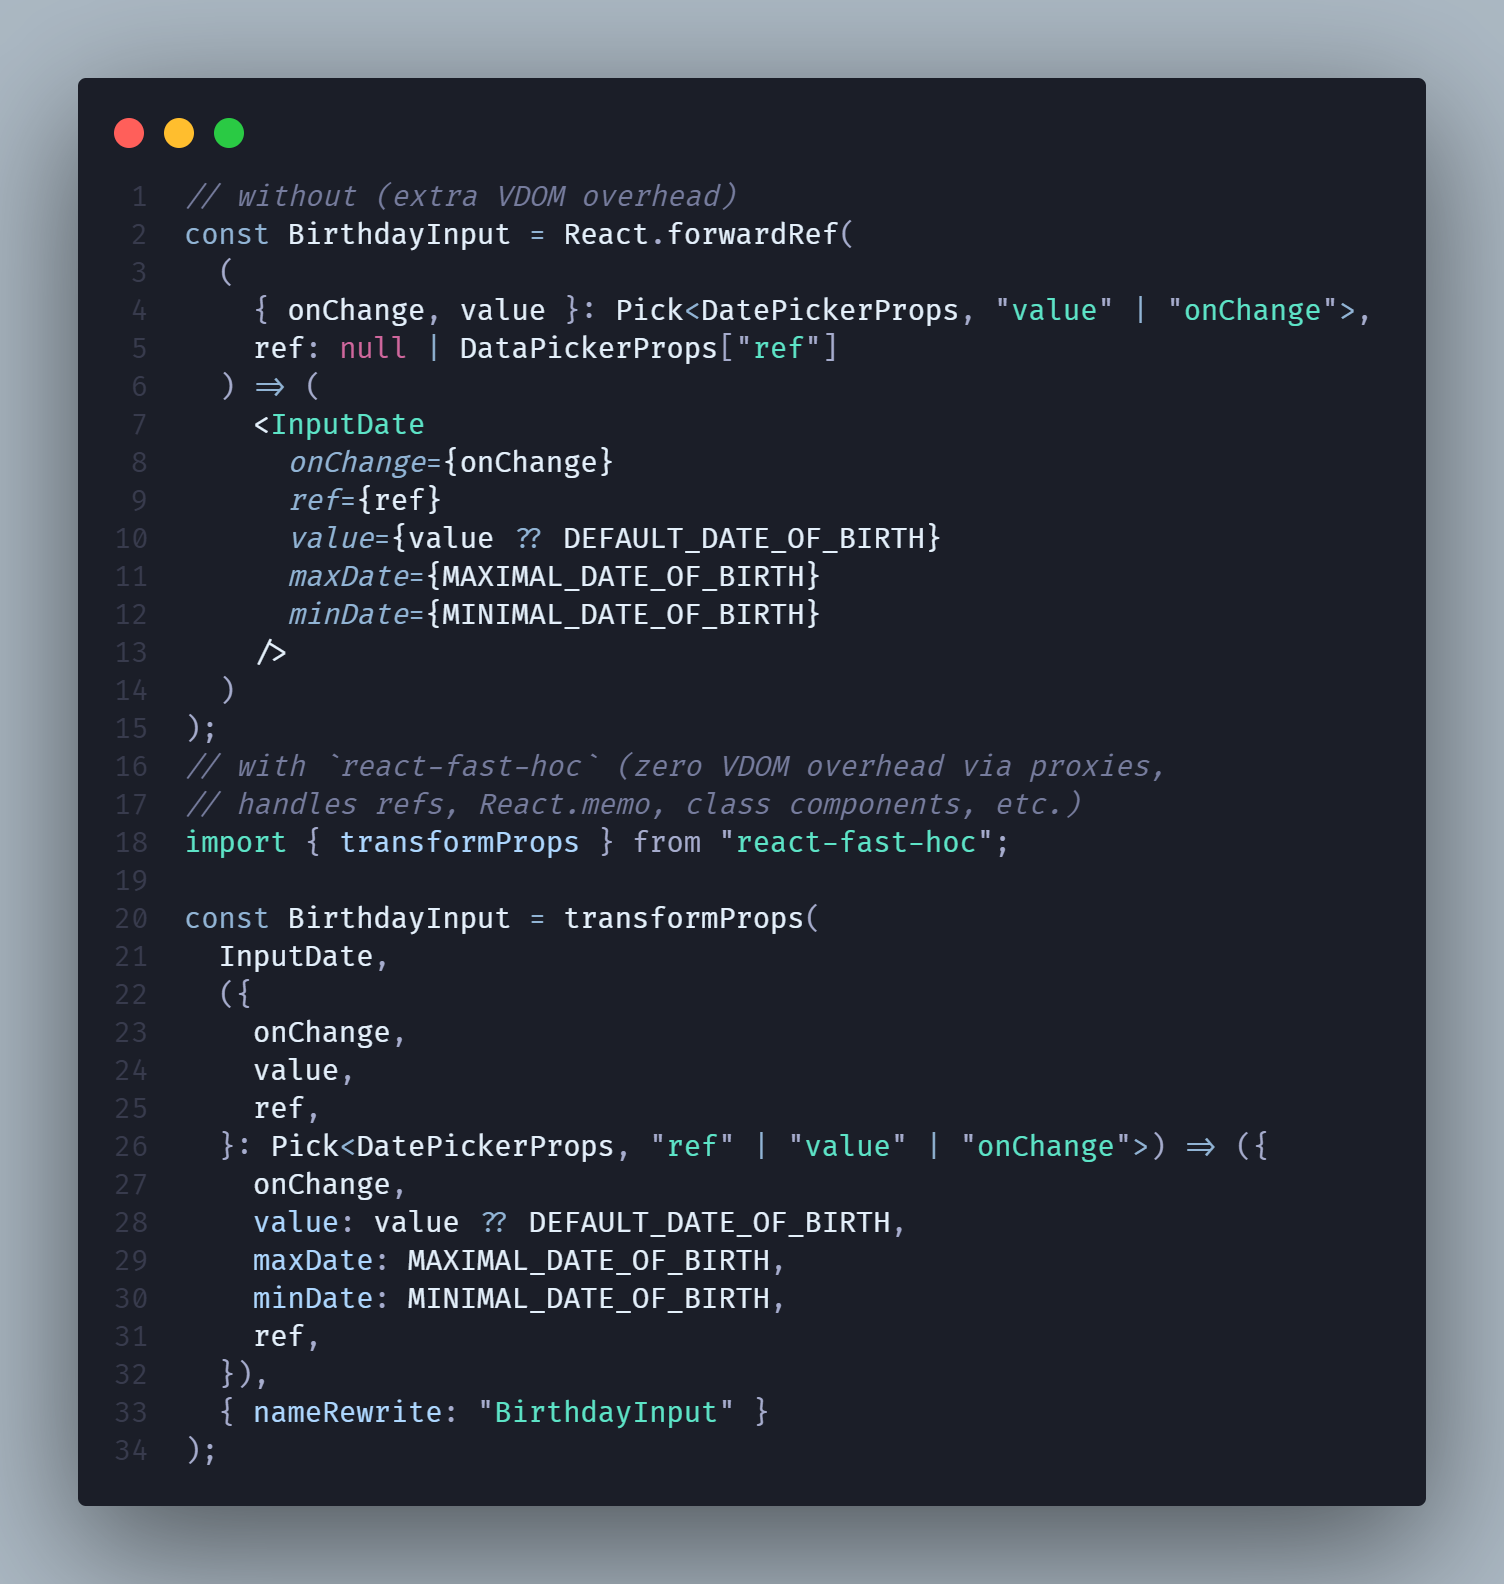
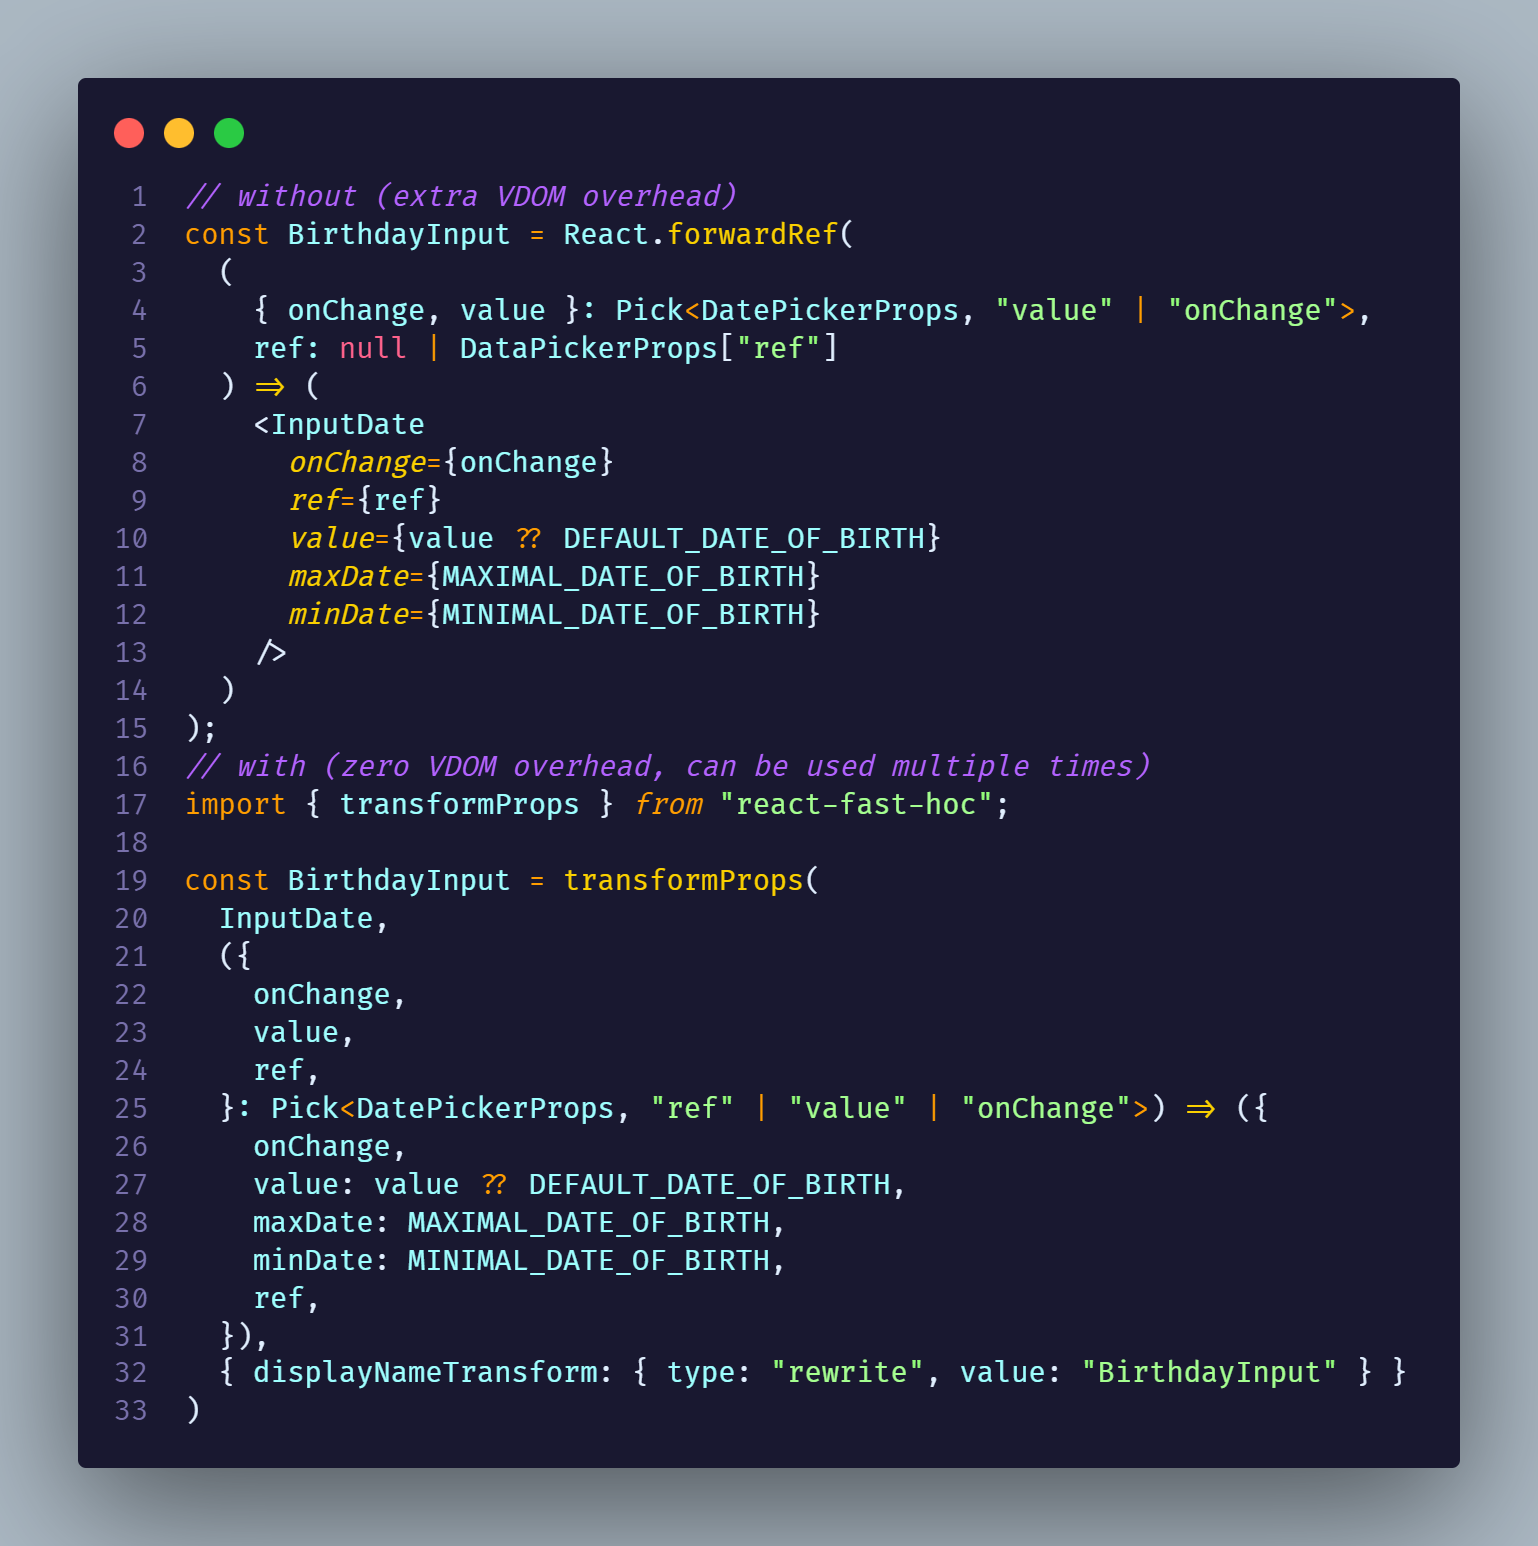
remove deprecated methods from docs

diff --git a/packages/react-fast-hoc/src/createHoc.ts b/packages/react-fast-hoc/src/createHoc.ts
@@ -40,7 +40,7 @@ const paramsToDisplayNameTransformer = (
  */
 export const createHoc = <
   TPipeTransform extends Fn[] | HocTypeTransform<any, any>,
-  ComponentPropsExtends extends PropsBase = PropsBase,
+  TComponentPropsExtends extends PropsBase = PropsBase,
   TActualTransform extends HocTypeTransform<
     any,
     any
@@ -67,5 +67,5 @@ export const createHoc = <
       component,
       proxyObject,
       mimicToHandler
-    )) as CreateHocReturn<TActualTransform, ComponentPropsExtends>;
+    )) as CreateHocReturn<TActualTransform, TComponentPropsExtends>;
 };

diff --git a/README.md b/README.md
@@ -1,8 +1,8 @@
 # React Fast HOC
 
-![Version](https://badgen.net/npm/v/react-fast-hoc) ![Ts support](https://badgen.net/npm/types/react-fast-hoc) ![Size](https://badgen.net/bundlephobia/min/react-fast-hoc) ![Size gzip](https://badgen.net/bundlephobia/minzip/react-fast-hoc) ![Tree shaking](https://badgen.net/bundlephobia/tree-shaking/react-fast-hoc)
+Lightweight and type-safe High-Order Components (HOCs) library for React, leveraging high-order types from "hotscript" and JavaScript Proxies for zero VDOM overhead.
 
-Lightweight and type-safe High-Order Components (HOCs) library for React, leveraging high-order types from "hotscript" and JavaScript Proxies for zero VDOM overhead and blazing-fast performance.
+![Version](https://badgen.net/npm/v/react-fast-hoc) ![Ts support](https://badgen.net/npm/types/react-fast-hoc) ![Size](https://badgen.net/bundlephobia/min/react-fast-hoc) ![Size gzip](https://badgen.net/bundlephobia/minzip/react-fast-hoc) ![Tree shaking](https://badgen.net/bundlephobia/tree-shaking/react-fast-hoc)
 
 ![Demonstration](./code.png)
 
@@ -45,7 +45,7 @@ Or with [ni](https://www.npmjs.com/package/@antfu/ni):
 ni react-fast-hoc
 ```
 
-Install the `hotscript` for advanced usage:
+Install the `hotscript` for creating complex props transformations:
 
 ```sh
 ni -D hotscript
@@ -85,7 +85,7 @@ const BirthdayInput = transformProps(
     minDate: MINIMAL_DATE_OF_BIRTH,
     ref,
   }),
-  { nameRewrite: "BirthdayInput" }
+  { displayNameTransform: { type: "rewrite", value: "BirthdayInput" } }
 );
 ```
 
@@ -95,7 +95,7 @@ const BirthdayInput = transformProps(
 
 Directly create a new component with transformed props.
 
-```typescript
+```ts
 import { transformProps } from "react-fast-hoc";
 
 const EnhancedComponent = transformProps(
@@ -104,7 +104,7 @@ const EnhancedComponent = transformProps(
     // Transform props here
     return { ...props, transformedProp: "Transformed Value" };
   },
-  { namePrefix: "WithTransformedProps." }
+  { displayNameTransform: { type: "rewrite", value: "WithTransformedProps." } }
 );
 ```
 
@@ -112,17 +112,19 @@ const EnhancedComponent = transformProps(
 
 Create a new HOC with a custom props transformer and optional display name prefix.
 
-```typescript
+```ts
 import { createHoc } from "react-fast-hoc";
 
 const withCustomLogic = createHoc({
-  namePrefix: "WithCustomLogic",
   propsTransformer: (props) => {
     // Apply custom logic here
     return { ...props, customProp: "Custom Value" };
   },
   resultTransformer: null,
-  nameRewrite: null,
+  displayNameTransform: {
+    type: "prefix",
+    value: "WithCustomLogic.",
+  },
 });
 
 const EnhancedComponent = withCustomLogic(MyComponent);
@@ -140,7 +142,12 @@ const withTransformedProps = createTransformProps(
     // Transform props here
     return { ...props, transformedProp: "Transformed Value" };
   },
-  { namePrefix: "WithTransformedProps." }
+  {
+    displayNameTransform: {
+      type: "prefix",
+      value: "WithTransformedProps.",
+    },
+  }
 );
 
 const EnhancedComponent = withTransformedProps(MyComponent);

diff --git a/API.md b/API.md
@@ -12,16 +12,37 @@ This document provides an overview of the API for the `react-fast-hoc` package. 
 
 ---
 
-```typescript
+```ts
 export type CreateHocComponentOptions = (
   | {
+      /** @deprecated use displayNameTransform */
+      nameRewrite: string;
+    }
+  | {
+      /** @deprecated use displayNameTransform */
       namePrefix: string;
     }
   | {
-      nameRewrite: string;
+      /**
+       * @description its to useful to know what component is wrapped in hoc in devtools
+       */
+      displayNameTransform:
+        | {
+            type: "rewrite";
+            value: string;
+          }
+        | {
+            type: "prefix";
+            value: string;
+          }
+        | {
+            type: "rewrite-dynamic";
+            value: (name: string) => string;
+          };
     }
 ) & {
   /**
+   * @deprecated
    * @description This feature has overhead in terms of using another proxy
    * to you can easilty mutate and define new properties, and not change inital component
    */
@@ -41,7 +62,7 @@ export type CreateHocComponentOptions = (
 function transformProps<T, TNewProps, TPreviousProps>(
   Component: T,
   transformer: (props: TNewProps) => TPreviousProps,
-  displayNamePrefix?: string
+  options?: CreateHocComponentOptions
 ): TransformPropsReturn<T, TNewProps>;
 ```
 
@@ -74,8 +95,7 @@ function createHoc<TPipeTransform, ComponentPropsExtends>(
 - `params`: An object containing the configuration for the HOC. _Extends CreateHocComponentOptions._ It includes:
   - `propsTransformer`: A function to transform the props of the wrapped component.
   - `resultTransformer`: A function to transform the rendered JSX of the wrapped component.
-  - `namePrefix`: A string to prefix the display name of the wrapped component.
-  - `nameRewrite`: A string to replace the display name of the wrapped component.
+  - `displayNameTransform`: Property for displayName rewrite.
   - `mimicToNewComponent`: enabled by default
 
 ### Returns

diff --git a/.changeset/khaki-boats-live.md b/.changeset/khaki-boats-live.md
@@ -1,0 +1,6 @@
+---
+"react-fast-hoc": patch
+---
+
+Removed deprecated api examples from README
+Fixes: [#20](https://github.com/XantreGodlike/react-fast-hoc/issues/20)
